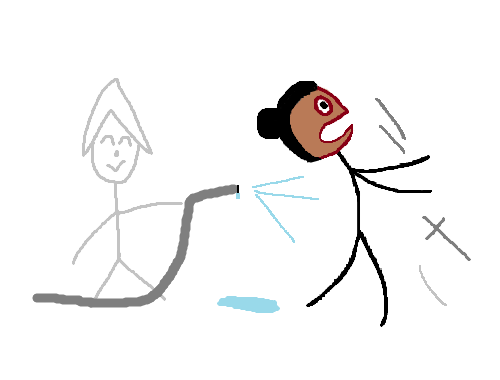
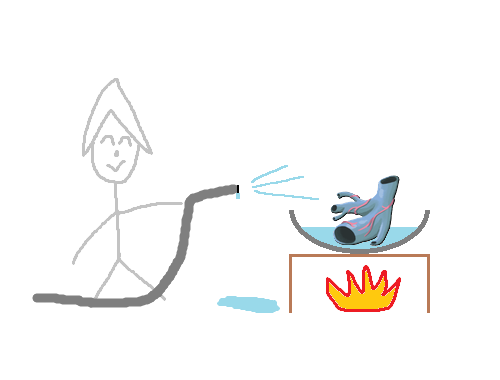
Add some card images. Fix some issues. Modify a card.

diff --git a/Code/Powers/SacrificePower.cs b/Code/Powers/SacrificePower.cs
@@ -42,7 +42,8 @@ public class SacrificePower : FlagellantPowerModel
             await PlayerCmd.GainEnergy(Amount, base.Owner.Player);
         }
     }
-    public override Task AfterSideTurnEnd(PlayerChoiceContext choiceContext, CombatSide side, IEnumerable<Creature> participants)
+    //public override Task AfterSideTurnEnd(PlayerChoiceContext choiceContext, CombatSide side, IEnumerable<Creature> participants)
+    public override Task BeforeSideTurnStart(PlayerChoiceContext choiceContext, CombatSide side, IReadOnlyList<Creature> participants, ICombatState combatState)
     {
         //if (side != base.Owner.Side) return Task.CompletedTask;
         if(!participants.Contains(base.Owner)) return Task.CompletedTask;

diff --git a/Code/Powers/UndyingPower.cs b/Code/Powers/UndyingPower.cs
@@ -44,7 +44,8 @@ public class UndyingPower : FlagellantPowerModel
         }
     }
 
-    public override Task AfterSideTurnEnd(PlayerChoiceContext choiceContext, CombatSide side, IEnumerable<Creature> participants)
+    //public override Task AfterSideTurnEnd(PlayerChoiceContext choiceContext, CombatSide side, IEnumerable<Creature> participants)
+    public override Task BeforeSideTurnStart(PlayerChoiceContext choiceContext, CombatSide side, IReadOnlyList<Creature> participants, ICombatState combatState)
     {
         //if (side != base.Owner.Side) return Task.CompletedTask;
         if (!participants.Contains(base.Owner)) return Task.CompletedTask;

diff --git a/Code/Patches/FlagellantAnimationPatch.cs b/Code/Patches/FlagellantAnimationPatch.cs
@@ -80,6 +80,11 @@ public static class FlagellantAnimationPatch
                     //已经在CalmIdle(Idle_A)状态时收到取消打出卡牌信号后不再调为Idle(Idle_B)状态
                     return;
                 }
+                if (animName == "Hit" && state_machine.GetCurrentNode() == "Hit")
+                {
+                    //有人发聩连续挨打容易触发T姿势，我没遇到过，还是限制一下吧
+                    return;
+                }
                 if (playImmediately)
                 {
                     state_machine.Start(animName);

diff --git a/Code/Cards/Rare/ScourgeForm.cs b/Code/Cards/Rare/ScourgeForm.cs
@@ -14,8 +14,9 @@ public class ScourgeForm : FlagellantCardModel
     public ScourgeForm() : base(3, CardType.Power, CardRarity.Rare, TargetType.Self)
     {
         WithAnimName("More");
-        WithPower<ScourgeFormPower>(1,1);
+        WithPower<ScourgeFormPower>(2);
         WithPowerTip<PoisonPower>();
+        WithCostUpgradeBy(-1);
     }
 
     protected override async Task OnPlay(PlayerChoiceContext choiceContext, CardPlay cardPlay)
